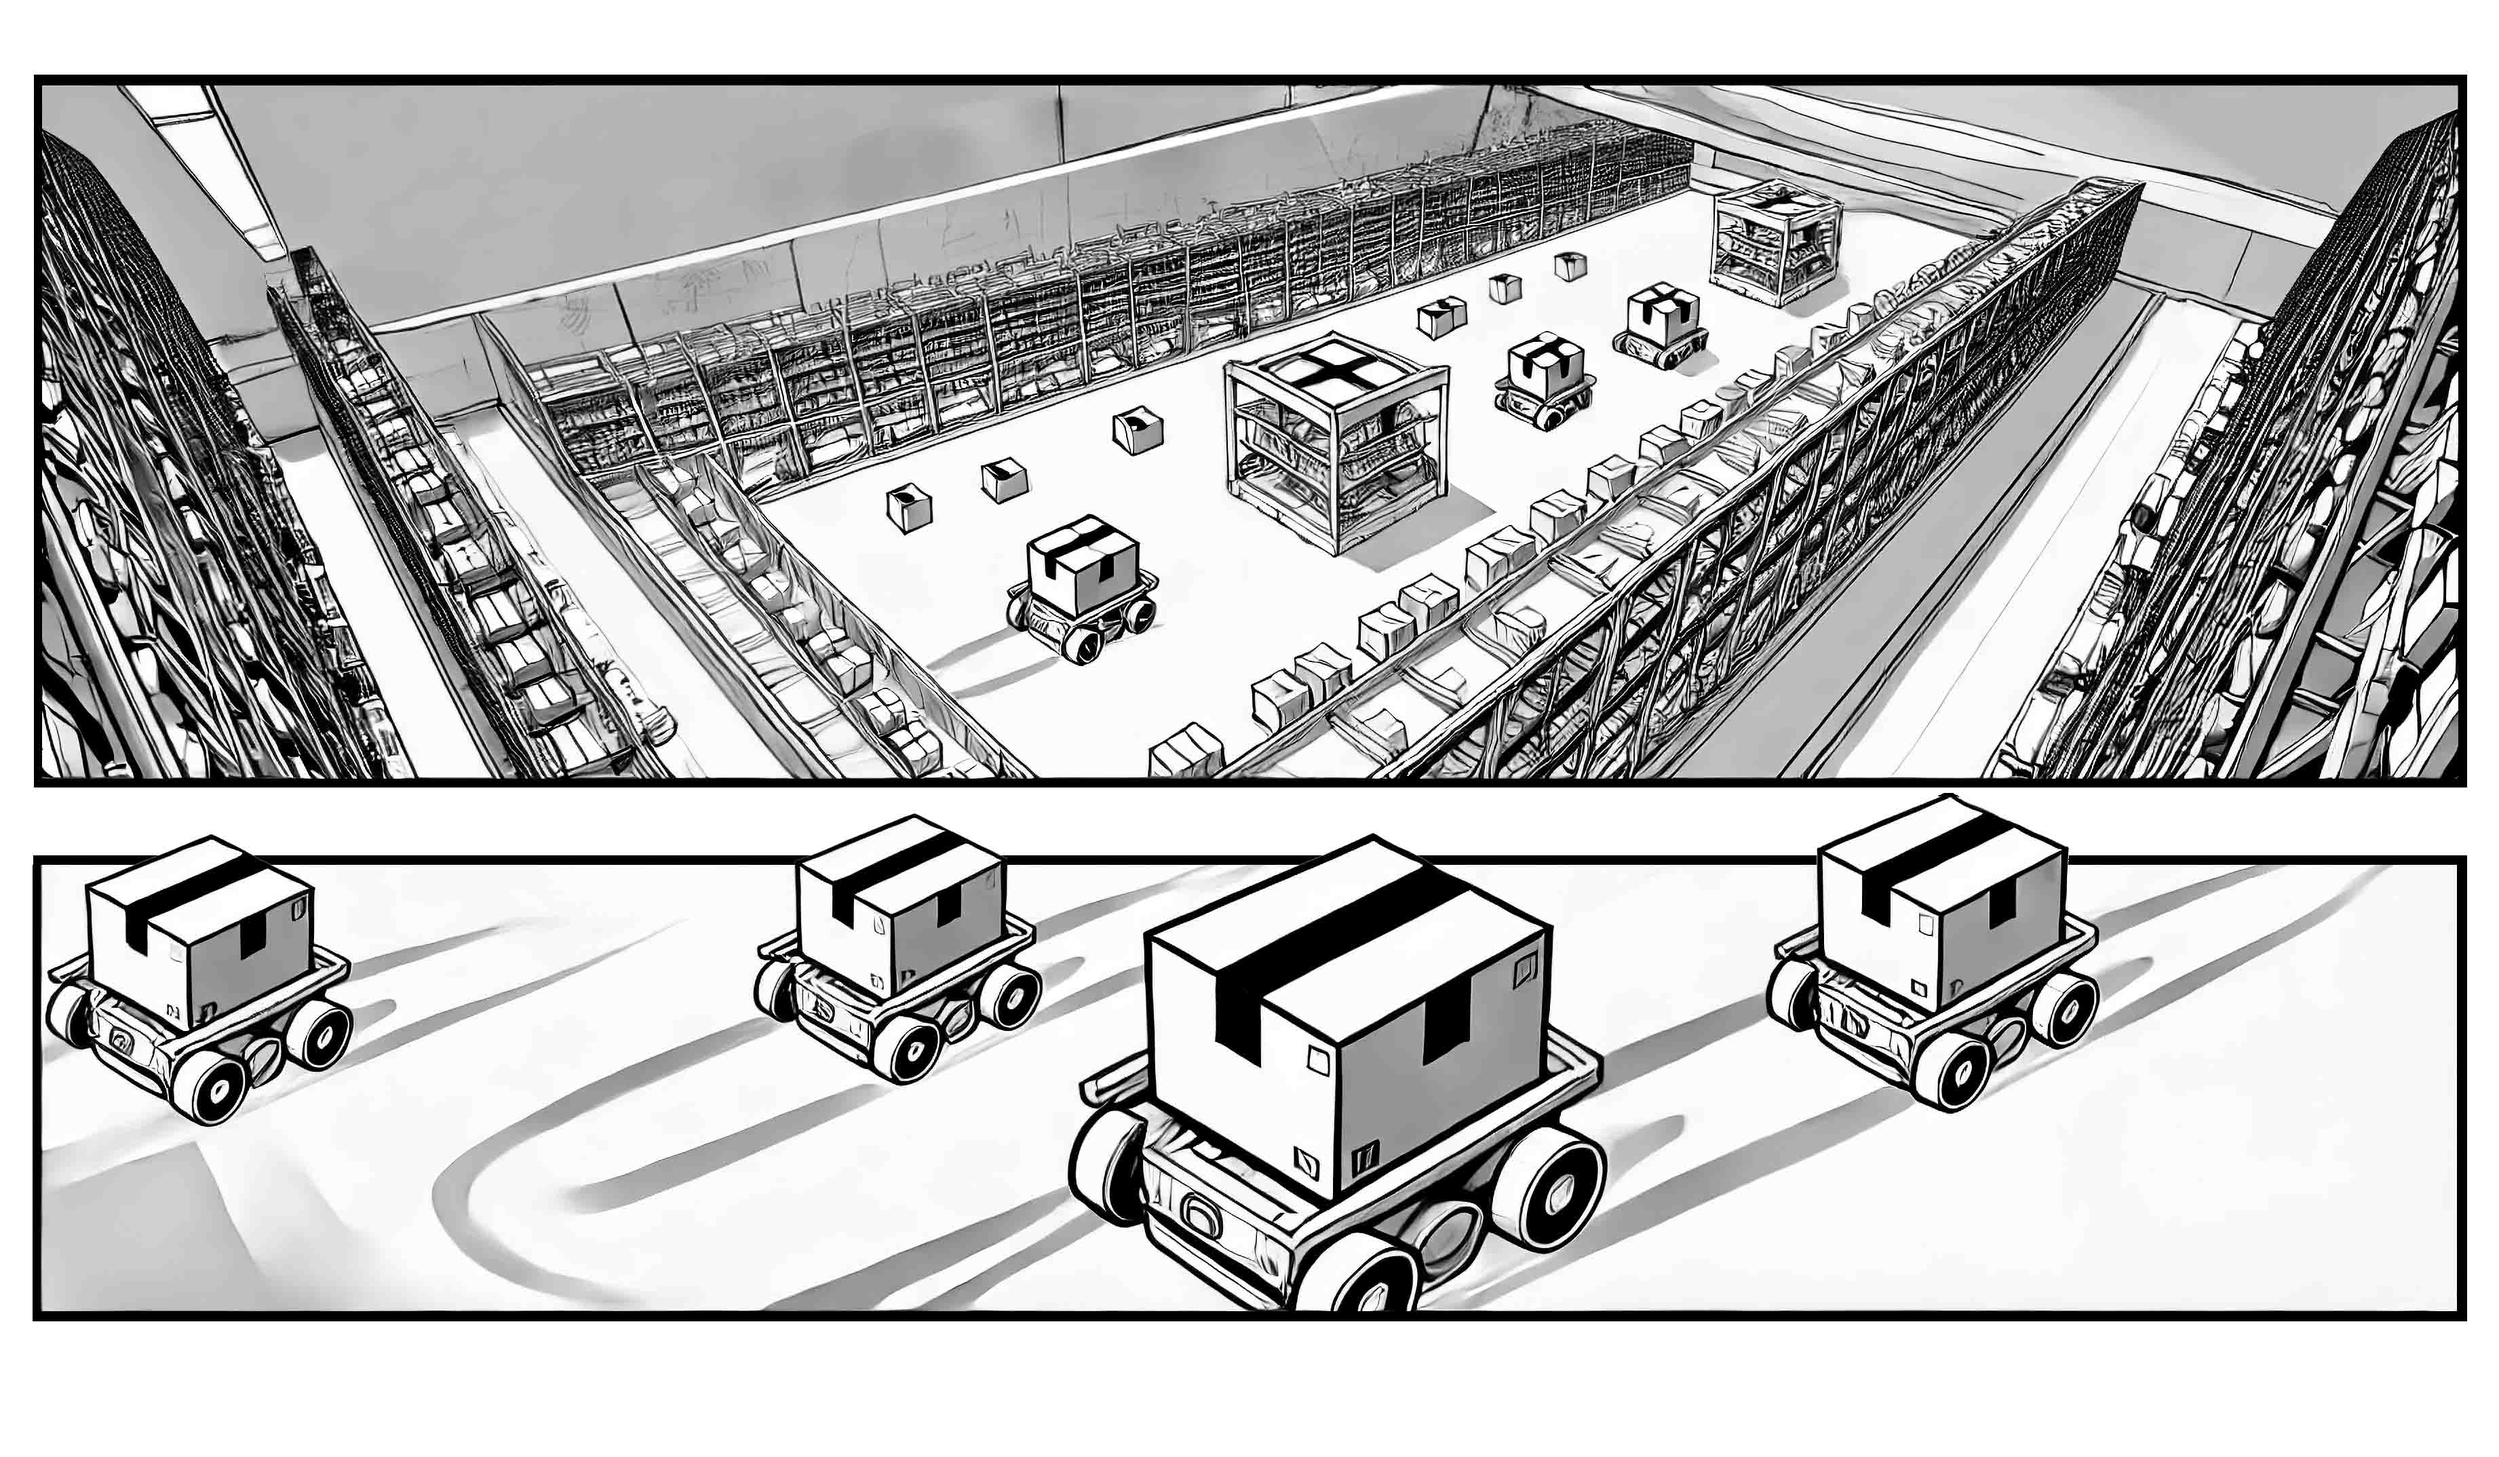
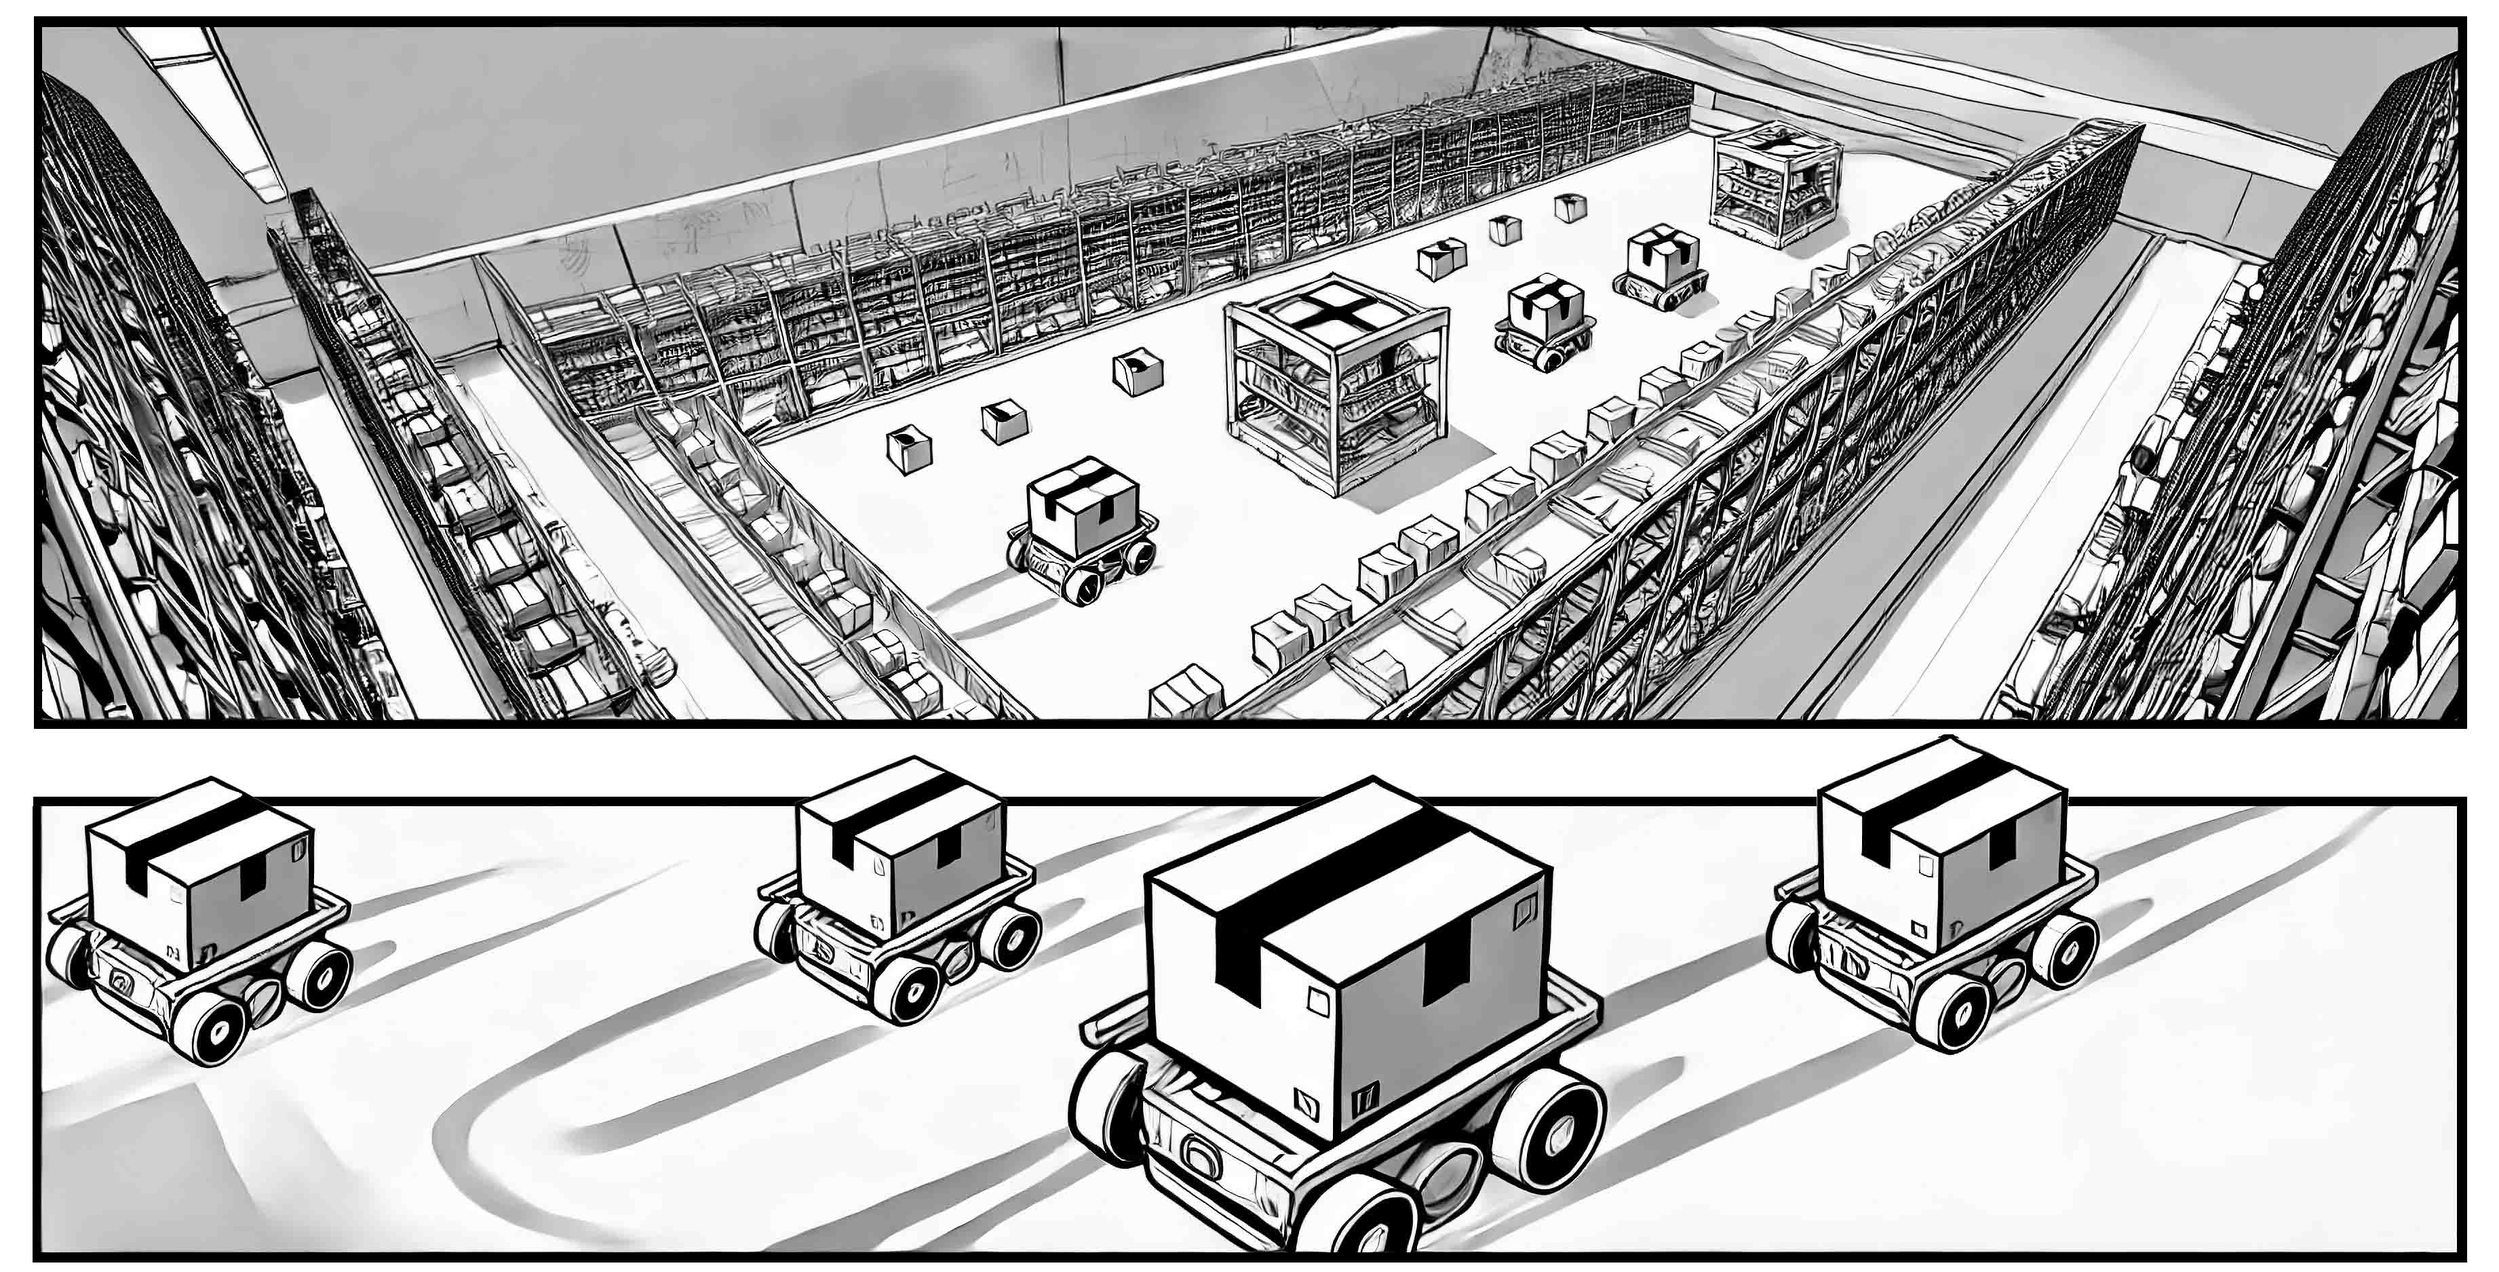
img with max width

diff --git a/landing_page.md b/landing_page.md
@@ -15,7 +15,8 @@ The League of Robot Runners, sponsored by Amazon Robotics, is a **competition** 
 
 ## The Mission ![r1](./external_page_resource/robots/r1_s.png)
 <!-- What we ask you to do, what you get if you do well, what are the important dates -->
-![demo](./external_page_resource/images/mission.jpg)
+<!-- ![demo](./external_page_resource/images/mission.jpg) -->
+<img src="./external_page_resource/images/mission.jpg" maxWidth="1024px"/>
 
 🚀 Participants are asked to develop algorithms that assign tasks to a team of robots and coordinate robots to complete assigned tasks in a given environment. The competition recognises distinguished performance in three distinct categories:
 
